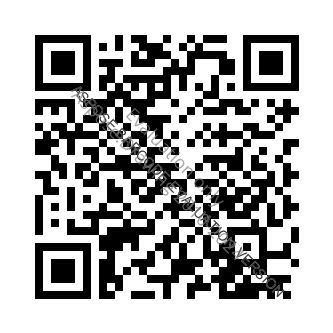
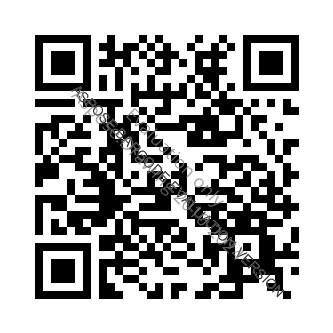
Add_DinkTOPDF

Changed region(s): [[0.0901, 0.0901, 0.9009, 0.9009], [0.6306, 0.4204, 0.7508, 0.5105]]

diff --git a/API/Controllers/QRController.cs b/API/Controllers/QRController.cs
@@ -27,7 +27,7 @@ namespace API.Controllers
                 var generator = new BarcodeGenerator(EncodeTypes.QR);
                 // Specify code text to encode
                
-                    KeyValuePairs.ToList()[i].TryGetValue("URL",out string colValue);
+                    KeyValuePairs.ToList()[i].TryGetValue("Link",out string colValue);
                 generator.CodeText = colValue;
                 // Specify the size of the image
                 generator.Parameters.Barcode.XDimension.Pixels = 8;
@@ -58,7 +58,7 @@ namespace API.Controllers
                     {
                         ColorMode = ColorMode.Color,
                         Orientation = Orientation.Portrait,
-                        PaperSize = PaperKind.A4,
+                        PaperSize = PaperKind.Letter,
                     },
                     Objects = {
                         new ObjectSettings

diff --git a/API/Controllers/PDFController.cs b/API/Controllers/PDFController.cs
@@ -73,7 +73,7 @@ namespace PdfCombinerAPI.Controllers
                     {
                         ColorMode = ColorMode.Color,
                         Orientation = Orientation.Portrait,
-                        PaperSize = PaperKind.A4,
+                        PaperSize = PaperKind.Letter,
                     },
                     Objects = {
                         new ObjectSettings
